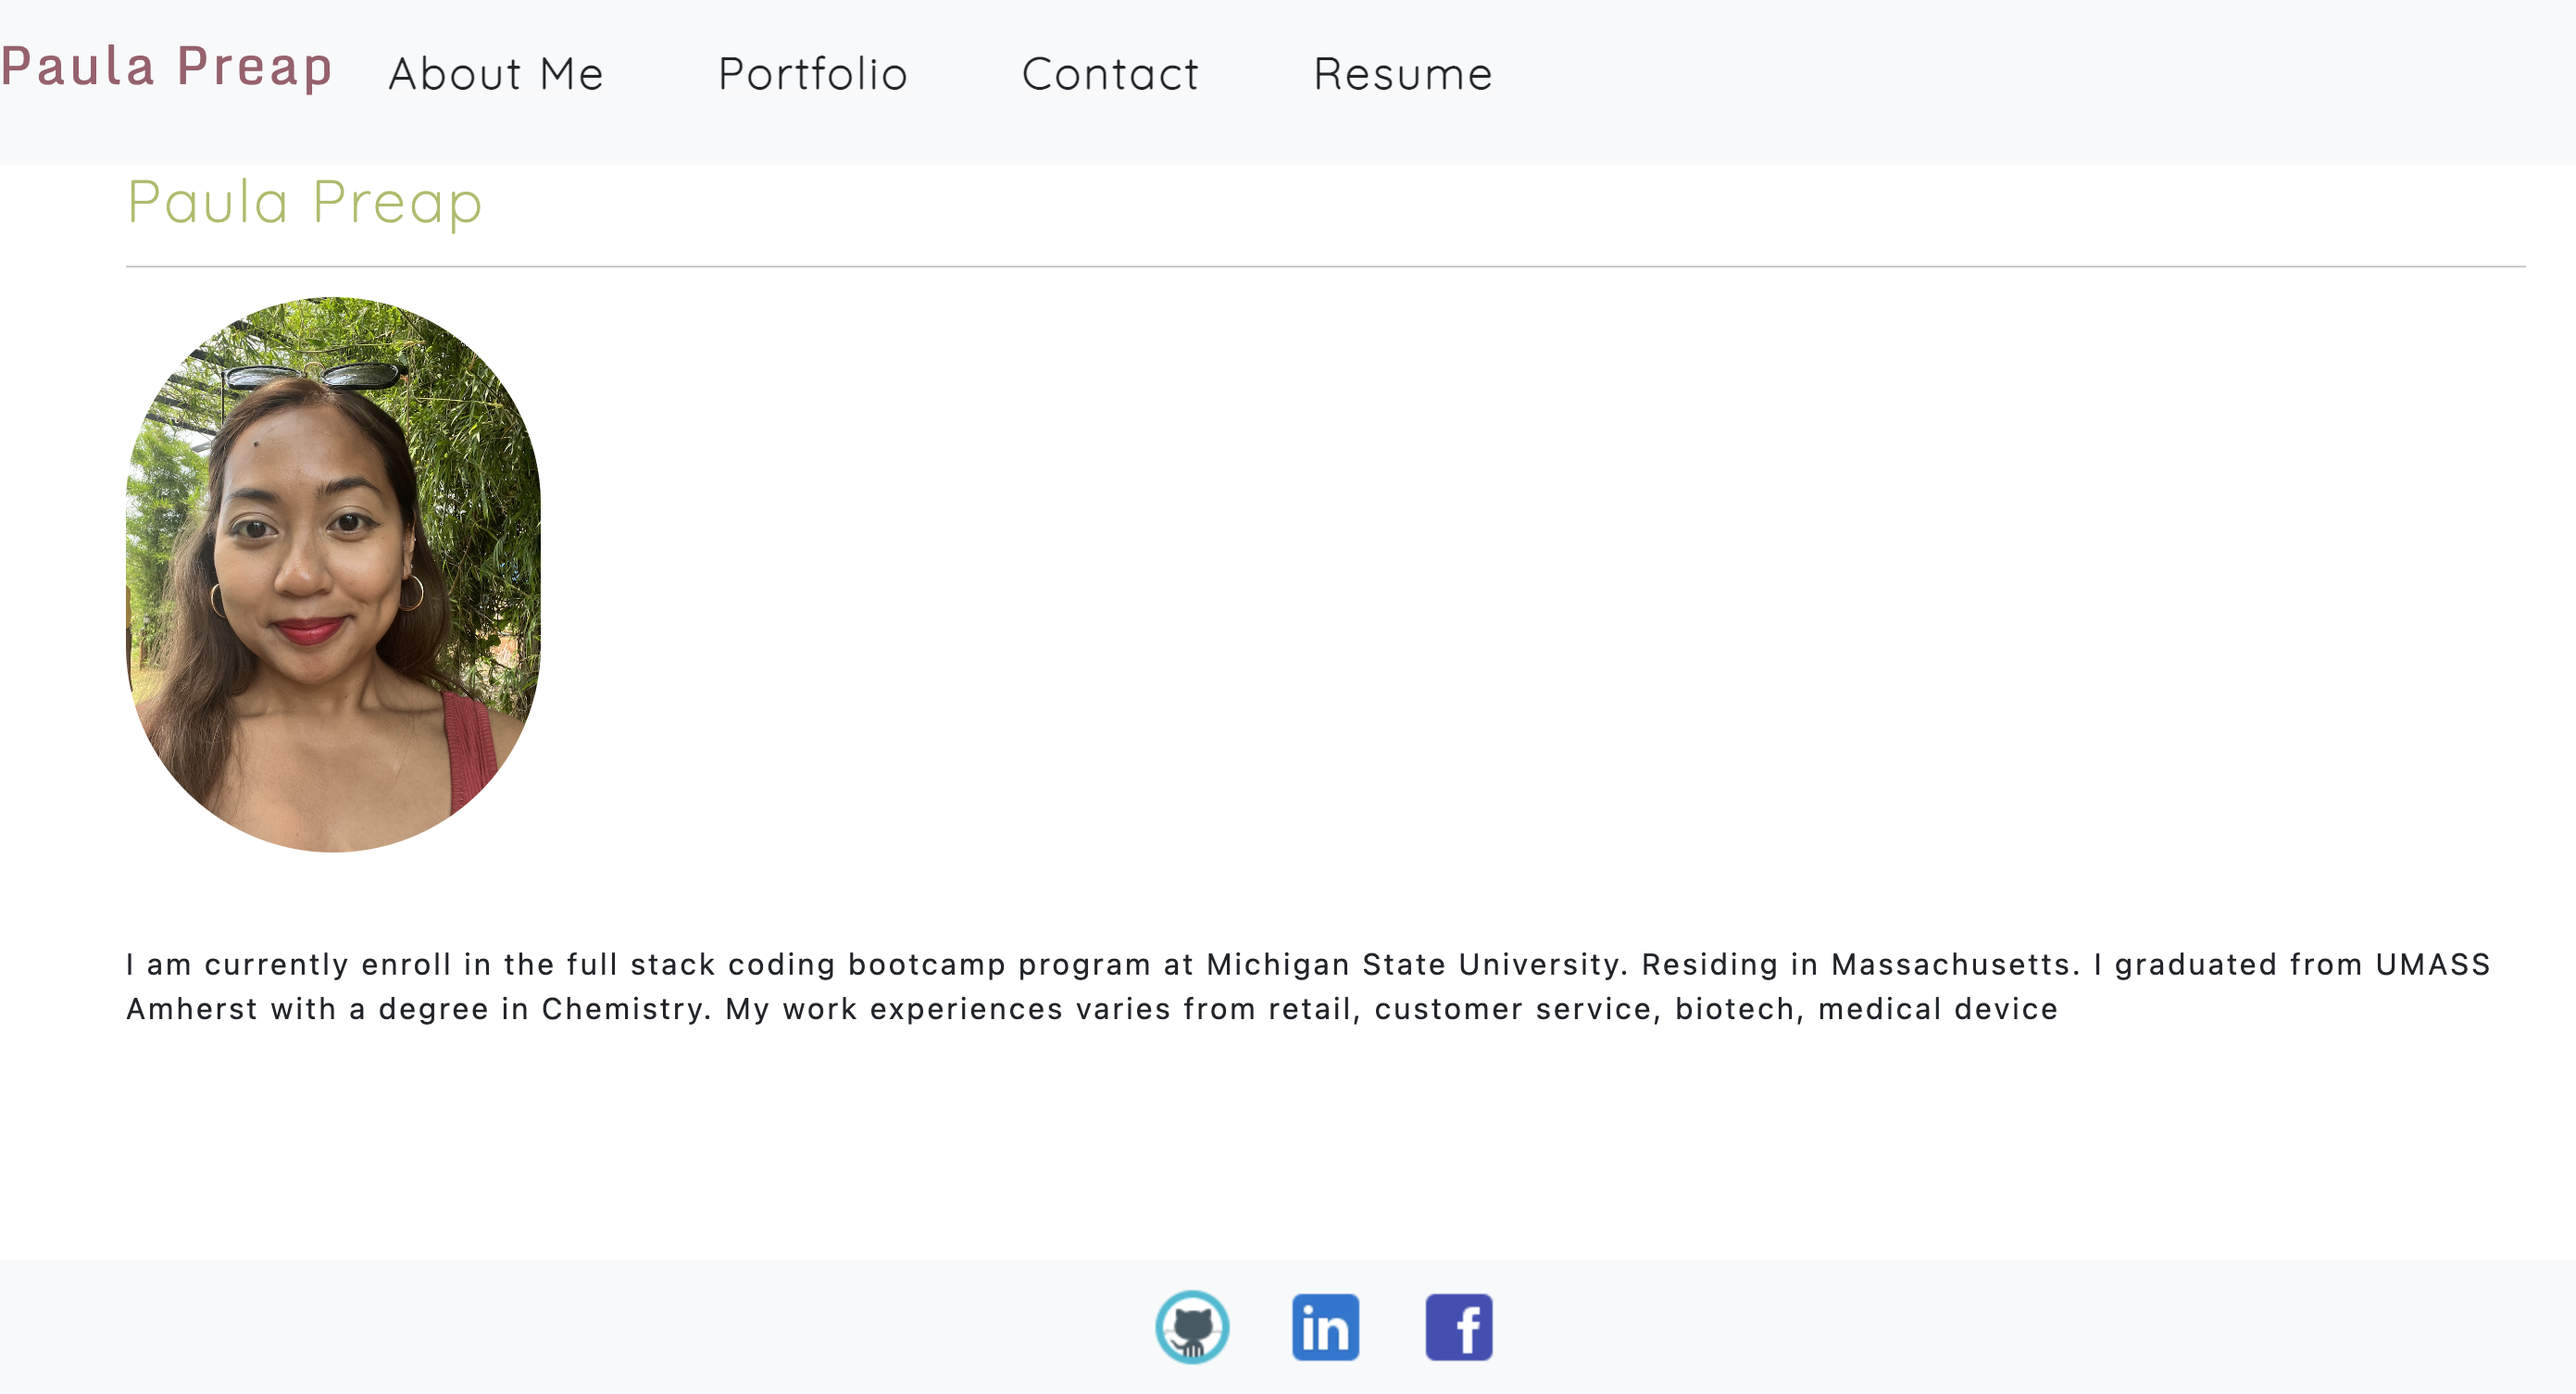
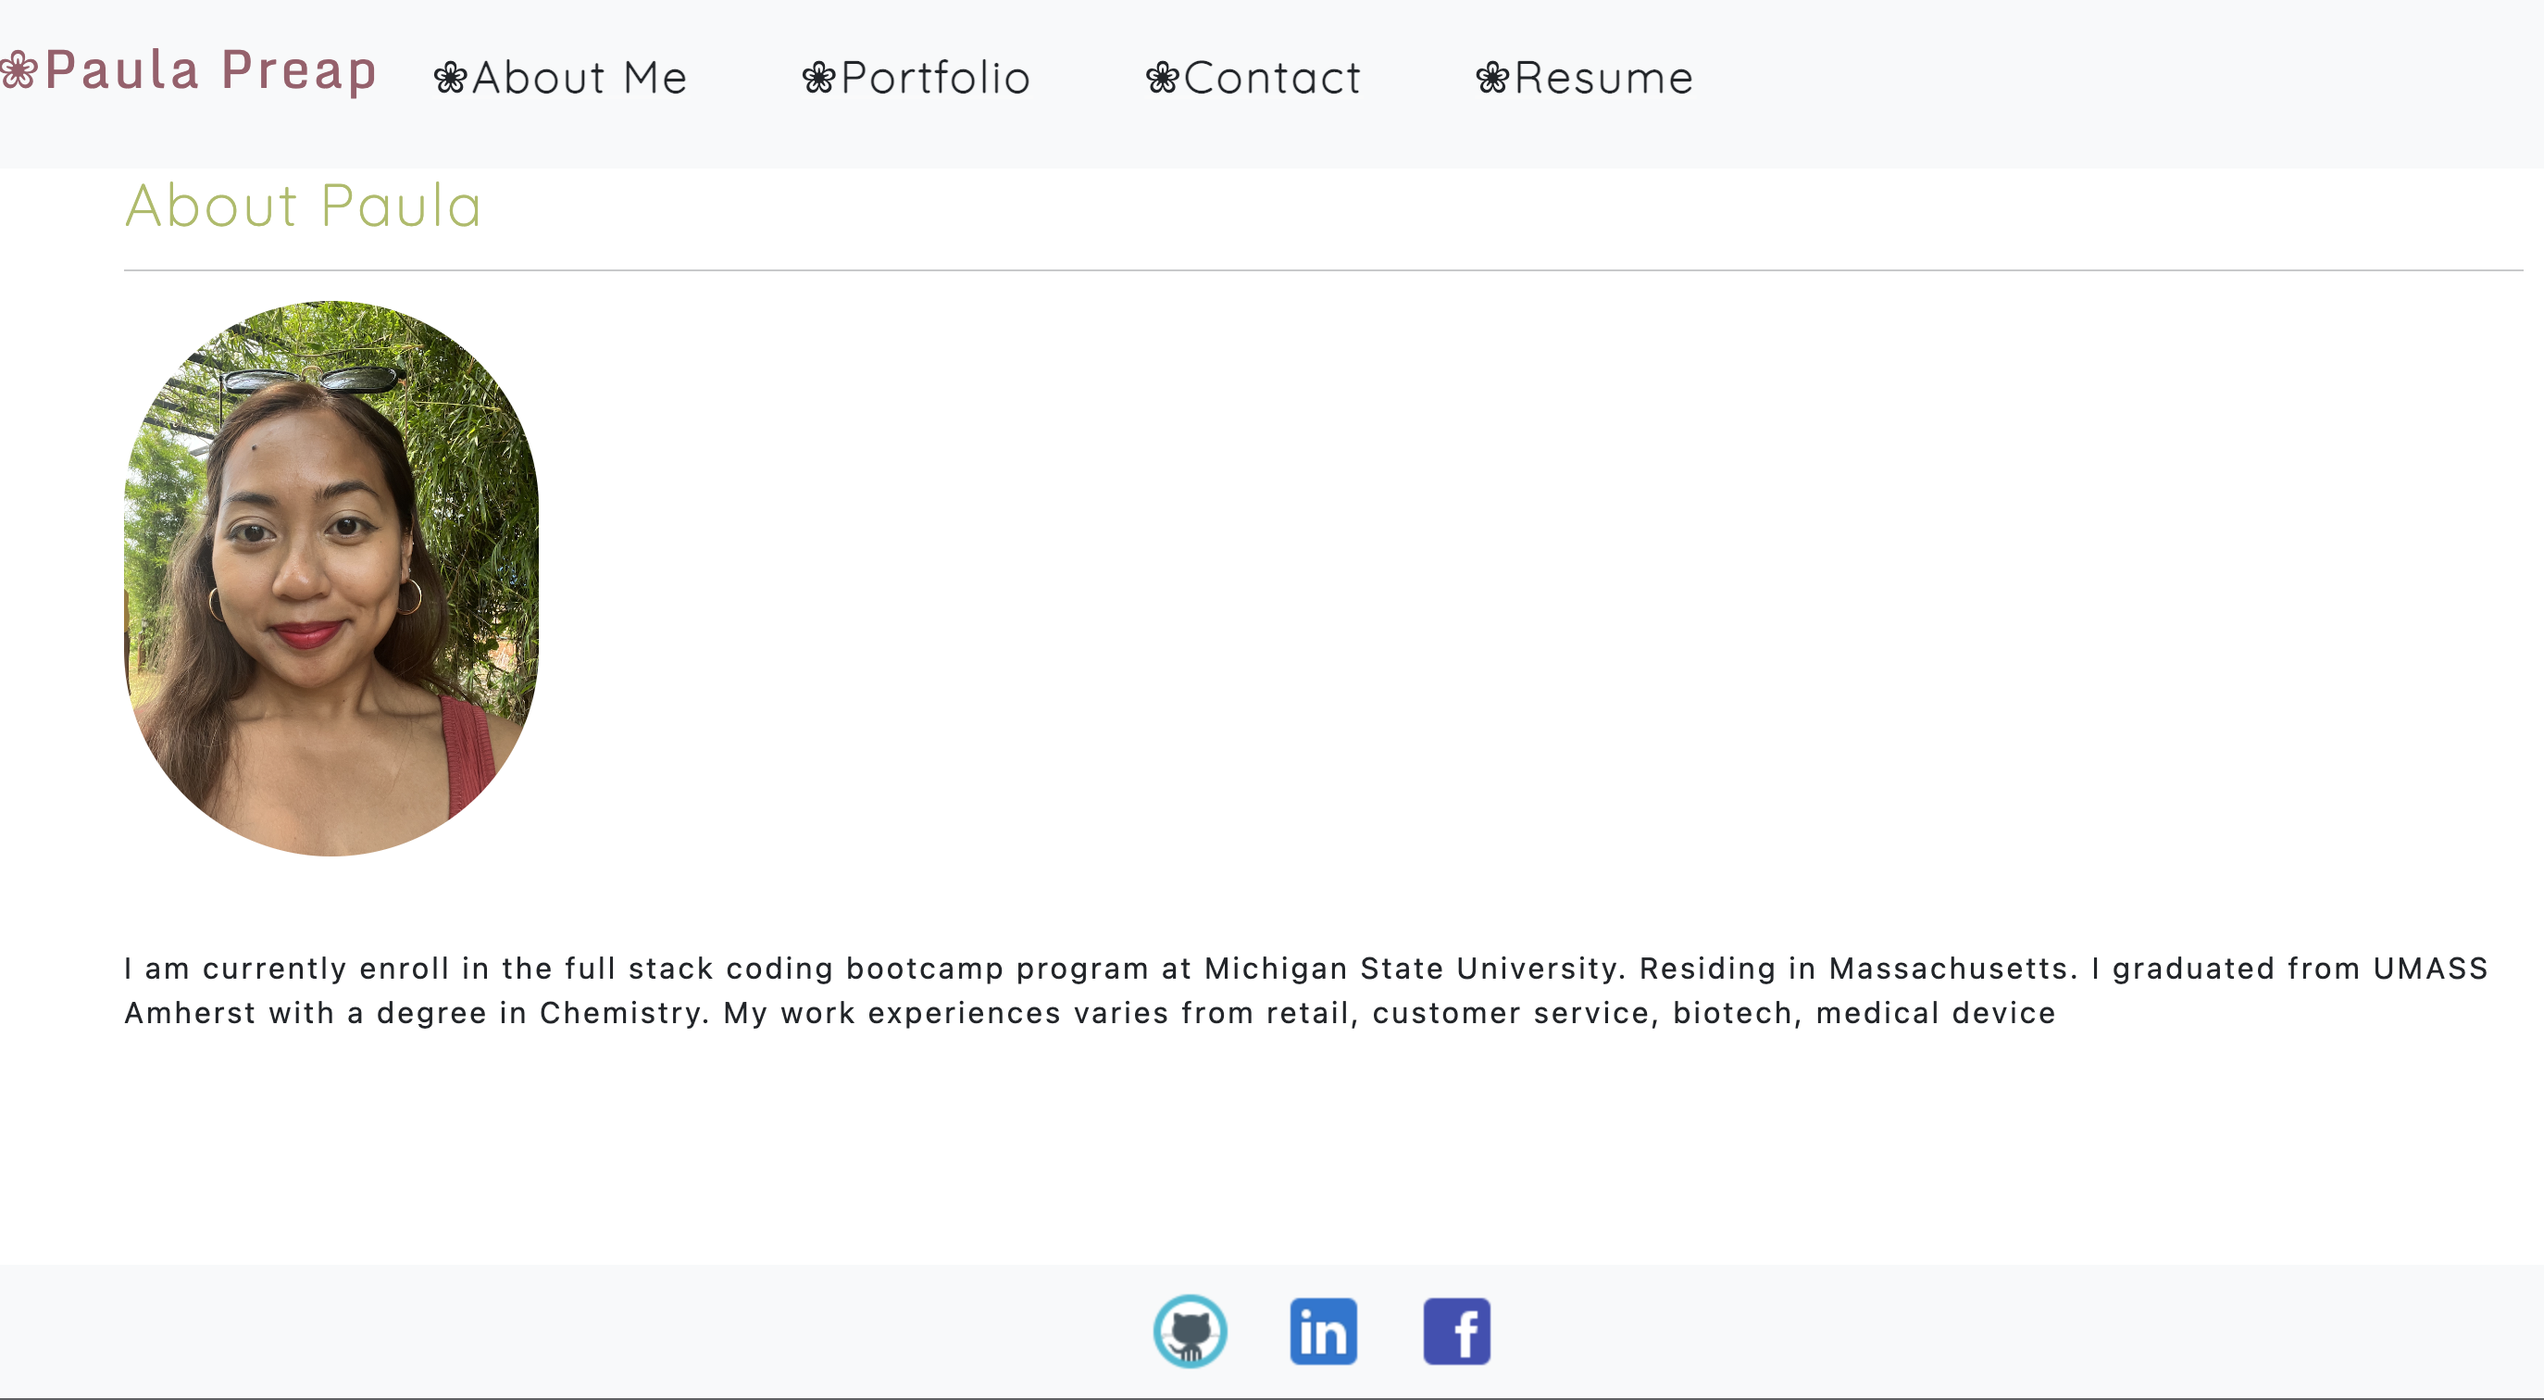
edit navigation header

diff --git a/src/components/Nav/index.js b/src/components/Nav/index.js
@@ -8,28 +8,28 @@ function Nav(props) {
             <Navbar expand='lg' bg='light' sticky='top'>
             <NavLink className='nav-link' to='/'>
                 <div class='text-dark'>
-                    <h3 class='nav-title-font'> Paula Preap</h3>
+                    <h3 class='nav-title-font'>❀Paula Preap</h3>
                 </div>
                 </NavLink>
                 <ul class='navbar-nav ml-auto navitem-indent'>
                     <li class='nav-item'>
                         <NavLink to="/about">
-                            <div class='nav-font text-dark'>About Me</div>
+                            <div class='nav-font text-dark'> ❀About Me</div>
                         </NavLink>
                     </li>
                     <li class='nav-item'>
                         <NavLink to='/portfolio'>
-                            <div class='nav-font text-dark'>Portfolio</div>
+                            <div class='nav-font text-dark'>❀Portfolio</div>
                         </NavLink>
                     </li>
                     <li class='nav-item'>
                         <NavLink to='/contact'>
-                            <div class='nav-font text-dark'>Contact</div>
+                            <div class='nav-font text-dark'>❀Contact</div>
                         </NavLink>
                     </li>
                     <li class='nav-item'>
                         <NavLink to='/resume'>
-                            <div class='nav-font text-dark'>Resume</div>
+                            <div class='nav-font text-dark'>❀Resume</div>
                         </NavLink>
                     </li>
                 </ul>

diff --git a/src/components/Portfolio/index.js b/src/components/Portfolio/index.js
@@ -12,7 +12,7 @@ function Portfolio() {
     return(
         <section className='container'>
             <div className='project'> 
-           <h2 className='title'> Portfolio</h2>
+           <h2 className='title'> Coding Bootcamp Portfolio</h2>
            <hr></hr>
             </div>
 

diff --git a/src/components/About/index.js b/src/components/About/index.js
@@ -4,7 +4,7 @@ import avatarImage from './aboutavatar.png'
 function About () {
     return (
     <section className = 'container'>
-        <h2 class='title'> Paula Preap</h2>
+        <h2 class='title'> About Paula</h2>
        <hr></hr>
   
          <div>
